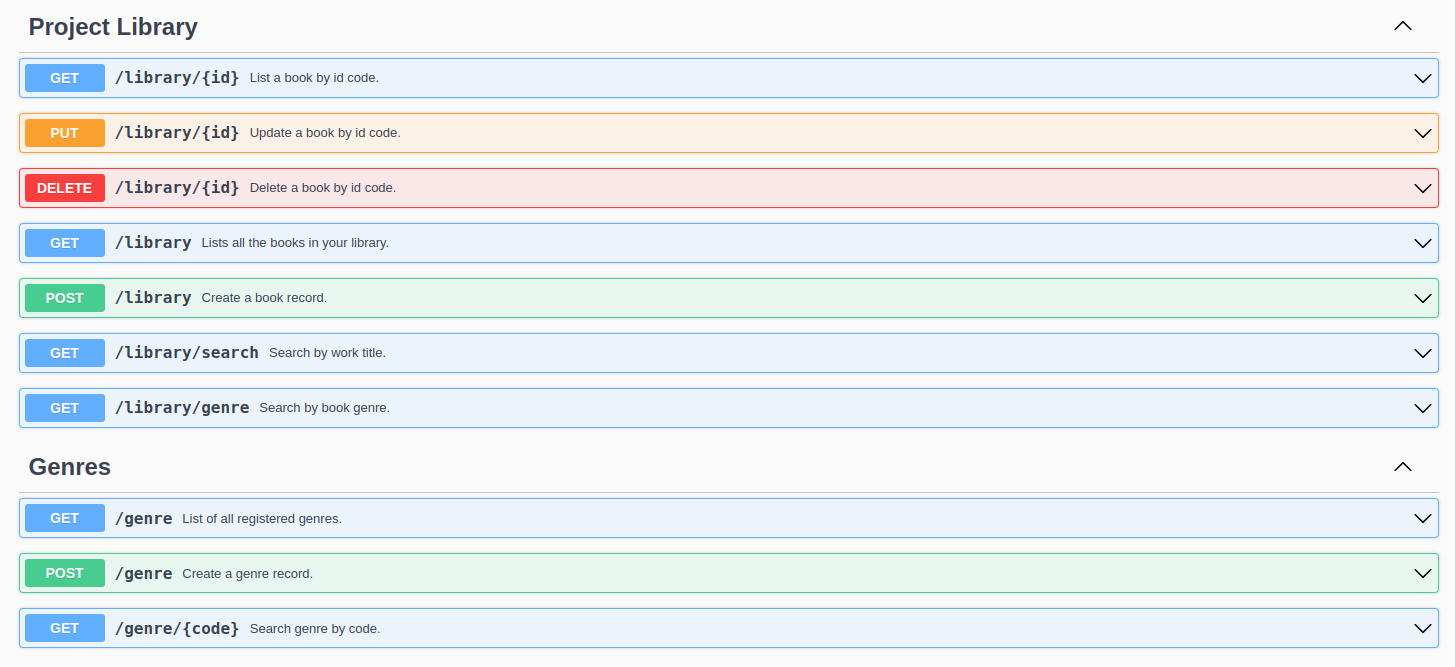
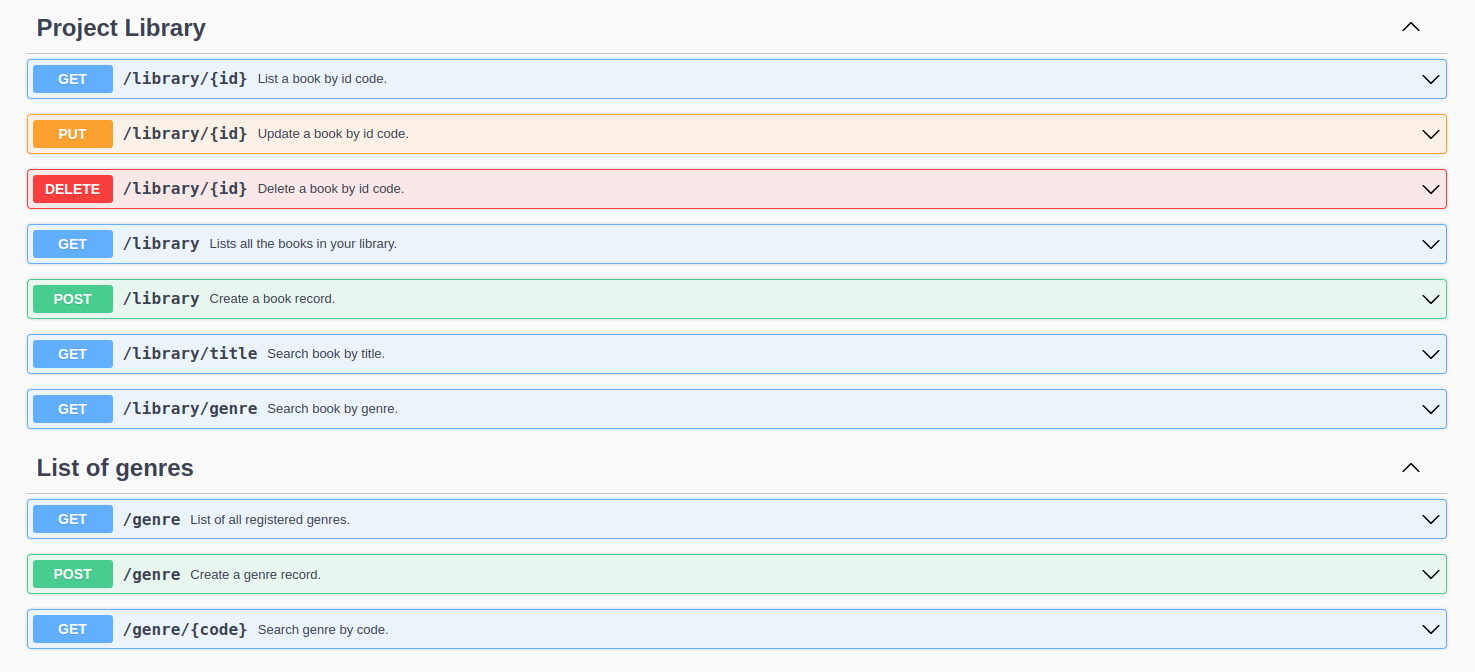
ajuste swagger e readme

Changed region(s): [[0.0, 0.03, 0.9897, 0.6597], [0.0, 0.6897, 0.9897, 0.9895]]

diff --git a/src/main/java/com/victoria/library/controller/BookController.java b/src/main/java/com/victoria/library/controller/BookController.java
@@ -80,8 +80,8 @@ public class BookController {
         return book.orElseThrow(()-> new ResponseStatusException(HttpStatus.NOT_FOUND, "Book not found!"));
     }
 
-    @GetMapping("/search")
-    @Operation(summary = "Search by work title.", method = "GET")
+    @GetMapping("/title")
+    @Operation(summary = "Search book by title.", method = "GET")
     @ApiResponses(value = {
             @ApiResponse(responseCode = "200", description = "Search performed successfully"),
             @ApiResponse(responseCode = "400", description = "Invalid parameters"),
@@ -110,7 +110,7 @@ public class BookController {
     }
 
     @GetMapping("/genre")
-    @Operation(summary = "Search by book genre.", method = "GET")
+    @Operation(summary = "Search book by genre.", method = "GET")
     public ResponseEntity<Page<Book>> findByGenre(@PageableDefault(
             size = 2,
             sort = "id",

diff --git a/src/main/java/com/victoria/library/controller/GenreController.java b/src/main/java/com/victoria/library/controller/GenreController.java
@@ -22,7 +22,7 @@ import static org.springframework.hateoas.server.mvc.WebMvcLinkBuilder.methodOn;
 
 @RestController
 @RequestMapping(value = "/genre", produces = {"application/json"})
-@Tag(name = "Genres")
+@Tag(name = "List of genres")
 public class GenreController {
 
     @Autowired
